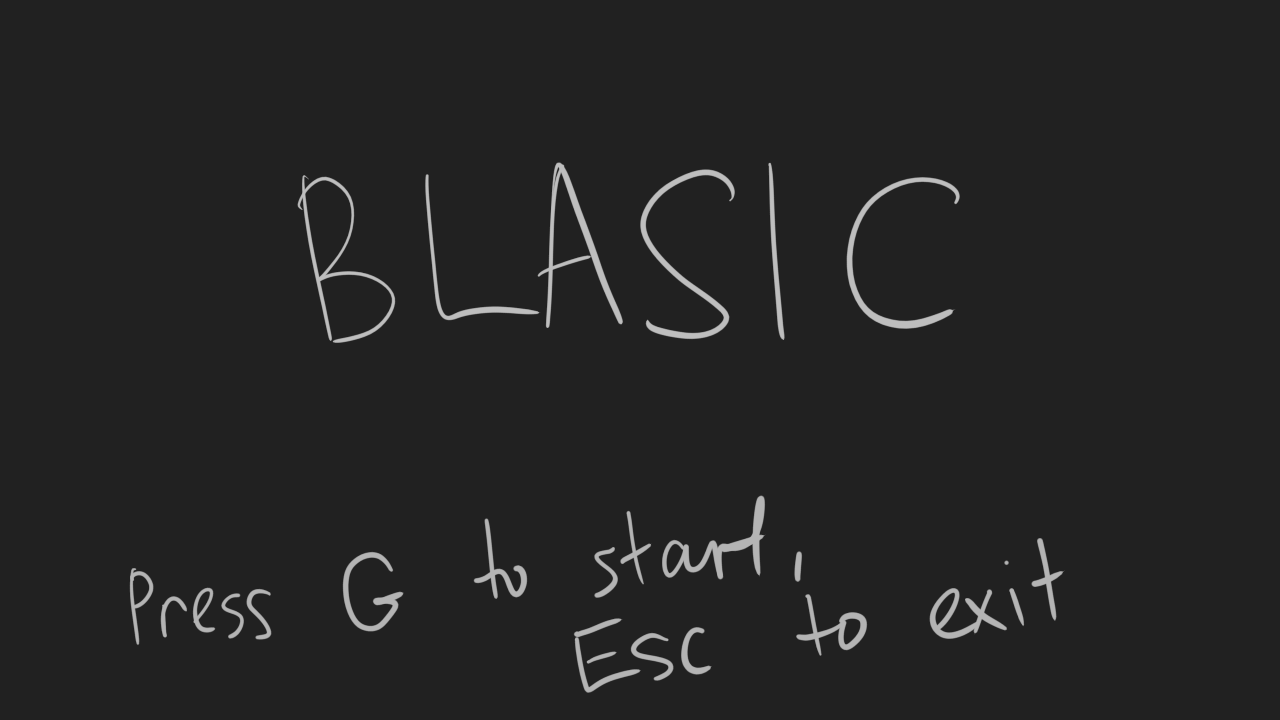
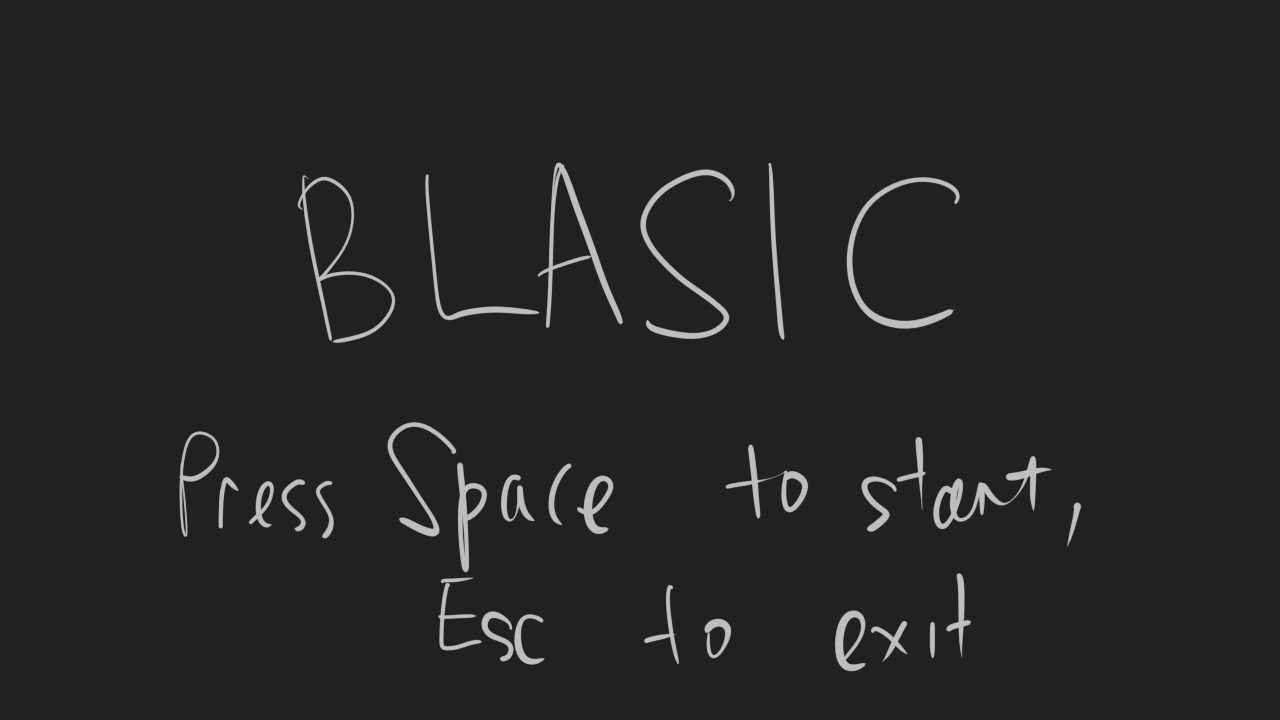
Add win condition and finish screen

diff --git a/src/menu.rs b/src/menu.rs
@@ -3,11 +3,11 @@ use bevy::{
     prelude::*,
     utils::HashSet,
 };
-use bevy_rapier3d::prelude::{Collider, ComputedColliderShape, RigidBody};
+use bevy_rapier3d::prelude::{ActiveEvents, Collider, ComputedColliderShape, RigidBody, Sensor};
 
 use crate::{
     post_processing::GameCamera, AppState, CameraMenu, CollidersLoaded, NodeMeta, PlayerBody,
-    PlayerHead, PlayerSpawn,
+    PlayerSpawn,
 };
 
 pub(crate) fn activate_menu_camera(
@@ -20,12 +20,21 @@ pub(crate) fn activate_menu_camera(
         .for_each(|mut c| c.is_active = false);
 }
 
+#[derive(Component)]
+pub struct MenuScreen;
+
 pub fn spawn_menu_screen(mut commands: Commands, asset_server: Res<AssetServer>) {
-    commands.spawn(SpriteBundle {
-        texture: asset_server.load("screens/start_screen.png"),
-        ..default()
-    });
+    commands.spawn((
+        SpriteBundle {
+            texture: asset_server.load("screens/start_screen.png"),
+            ..default()
+        },
+        MenuScreen,
+    ));
 }
+
+#[derive(Component)]
+pub struct ExitLevel;
 
 pub fn apply_gltf_extras(
     mut cmd: Commands,
@@ -66,7 +75,22 @@ pub fn apply_gltf_extras(
                     cmd.entity(ent).despawn_recursive()
                 }
             }
-            "ExitLevel" => cmd.entity(ent).despawn_recursive(),
+            "ExitLevel" => {
+                for child in ent_children {
+                    let Ok(mesh_handle) = bevy_mesh_components.get(*child) else {continue};
+                    let mesh = bevy_meshes.get(mesh_handle).unwrap();
+                    let collider = Collider::from_bevy_mesh(mesh, &default()).unwrap();
+                    cmd.spawn((
+                        ExitLevel,
+                        collider,
+                        *transform,
+                        Sensor,
+                        ActiveEvents::COLLISION_EVENTS,
+                        GlobalTransform::default(),
+                    ));
+                }
+                cmd.entity(ent).despawn_recursive();
+            }
             r => warn!("Unknown role {r}"),
         }
     }
@@ -116,7 +140,7 @@ pub fn create_colliders(
 }
 
 pub fn start_game(keyboard: Res<Input<KeyCode>>, mut next_state: ResMut<NextState<AppState>>) {
-    if keyboard.pressed(KeyCode::G) {
+    if keyboard.pressed(KeyCode::Space) {
         next_state.set(AppState::InGame);
     }
 }

diff --git a/src/game.rs b/src/game.rs
@@ -2,8 +2,8 @@ use bevy::{input::mouse::MouseMotion, prelude::*};
 use bevy_rapier3d::prelude::{CollisionEvent, ExternalImpulse, Velocity};
 
 use crate::{
-    post_processing::GameCamera, AppState, CameraMenu, PlayerBody, PlayerHead, PlayerLegs,
-    PlayerSpawn,
+    menu::ExitLevel, post_processing::GameCamera, AppState, CameraMenu, PlayerBody, PlayerHead,
+    PlayerLegs, PlayerSpawn,
 };
 
 pub(crate) fn activate_game_camera(
@@ -192,6 +192,26 @@ pub(crate) fn touch_ground(
                 if legs_comp.touching_objects == 0 {
                     info!("Off ground!");
                 }
+            }
+            _ => {}
+        }
+    }
+}
+
+pub(crate) fn exit_level(
+    mut collision_events: EventReader<CollisionEvent>,
+    player: Query<Entity, With<PlayerBody>>,
+    exit: Query<Entity, With<ExitLevel>>,
+    mut next_state: ResMut<NextState<AppState>>,
+) {
+    let player = player.single();
+    let exit = exit.single();
+    for event in collision_events.iter() {
+        match event {
+            CollisionEvent::Started(e1, e2, _)
+                if (e1 == &exit || e2 == &exit) && (e1 == &player || e2 == &player) =>
+            {
+                next_state.set(AppState::Finish);
             }
             _ => {}
         }

diff --git a/src/finish.rs b/src/finish.rs
@@ -1,0 +1,26 @@
+use bevy::{
+    prelude::{
+        default, AssetServer, Commands, Entity, Input, KeyCode, NextState, Query, Res, ResMut, With,
+    },
+    sprite::SpriteBundle,
+};
+
+use crate::{menu::MenuScreen, AppState};
+
+pub fn spawn_finish_screen(
+    mut commands: Commands,
+    asset_server: Res<AssetServer>,
+    menu_screen: Query<Entity, With<MenuScreen>>,
+) {
+    commands.entity(menu_screen.single()).despawn();
+    commands.spawn(SpriteBundle {
+        texture: asset_server.load("screens/win_screen.png"),
+        ..default()
+    });
+}
+
+pub fn restart(keyboard: Res<Input<KeyCode>>, mut next_state: ResMut<NextState<AppState>>) {
+    if keyboard.pressed(KeyCode::Space) {
+        next_state.set(AppState::InGame);
+    }
+}

diff --git a/src/main.rs b/src/main.rs
@@ -4,6 +4,7 @@
 
 //! A simple 3D scene with light shining over a cube sitting on a plane.
 
+mod finish;
 mod game;
 mod menu;
 mod post_processing;
@@ -78,9 +79,13 @@ fn main() {
                 game::debug_pos,
                 game::change_size,
                 game::back_to_menu,
+                game::exit_level,
             )
                 .in_set(OnUpdate(AppState::InGame)),
         )
+        .add_system(menu::activate_menu_camera.in_schedule(OnEnter(AppState::Finish)))
+        .add_system(finish::spawn_finish_screen.in_schedule(OnEnter(AppState::Finish)))
+        .add_system(finish::restart.in_set(OnUpdate(AppState::Finish)))
         .add_system(bevy::window::close_on_esc)
         .run();
 }
